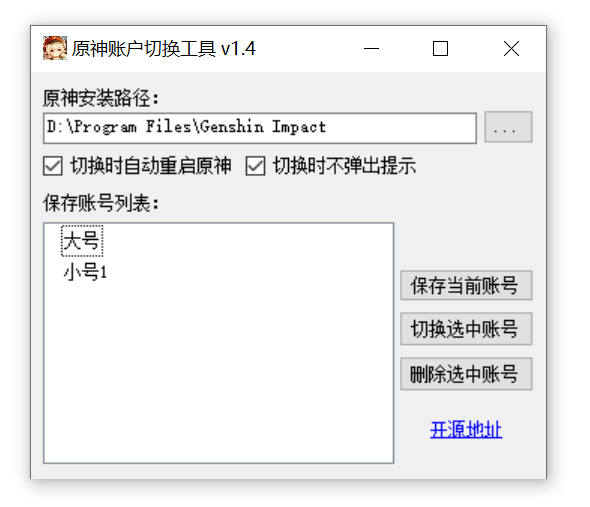
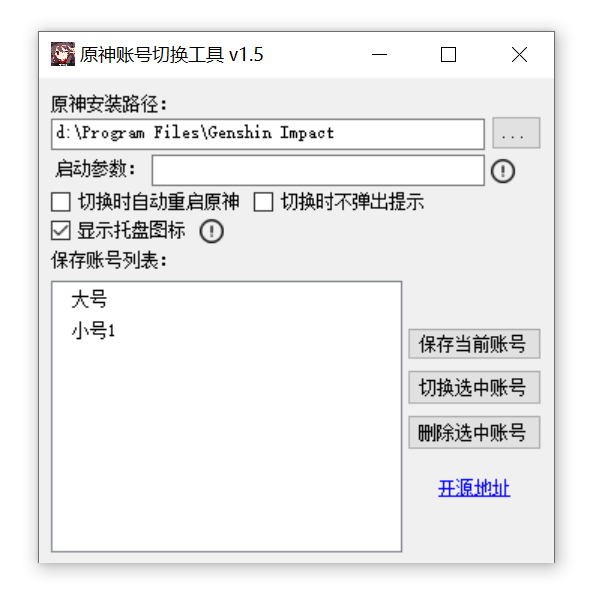
1.5

Changed region(s): [[0.0305, 0.0296, 0.9458, 0.9467], [0.7322, 0.7988, 0.8542, 0.8876], [0.6102, 0.0888, 0.6407, 0.1183]]

diff --git a/GenshinAccount/Properties/AssemblyInfo.cs b/GenshinAccount/Properties/AssemblyInfo.cs
@@ -10,7 +10,7 @@ using System.Runtime.InteropServices;
 [assembly: AssemblyConfiguration("")]
 [assembly: AssemblyCompany("")]
 [assembly: AssemblyProduct("GenshinAccount")]
-[assembly: AssemblyCopyright("Copyright ©  2020")]
+[assembly: AssemblyCopyright("Copyright ©  2021")]
 [assembly: AssemblyTrademark("")]
 [assembly: AssemblyCulture("")]
 
@@ -32,5 +32,5 @@ using System.Runtime.InteropServices;
 // 可以指定所有值，也可以使用以下所示的 "*" 预置版本号和修订号
 // 方法是按如下所示使用“*”: :
 // [assembly: AssemblyVersion("1.0.*")]
-[assembly: AssemblyVersion("1.4.0.0")]
-[assembly: AssemblyFileVersion("1.4.0.0")]
+[assembly: AssemblyVersion("1.5.0.0")]
+[assembly: AssemblyFileVersion("1.5.0.0")]

diff --git a/GenshinAccount/FormMain.Designer.cs b/GenshinAccount/FormMain.Designer.cs
@@ -190,8 +190,8 @@
             // 
             // picHelpSatrtParam
             // 
-            this.picHelpSatrtParam.Image = global::GenshinAccount.Properties.Resources.attention;
             resources.ApplyResources(this.picHelpSatrtParam, "picHelpSatrtParam");
+            this.picHelpSatrtParam.Image = global::GenshinAccount.Properties.Resources.attention;
             this.picHelpSatrtParam.Name = "picHelpSatrtParam";
             this.picHelpSatrtParam.TabStop = false;
             this.tipHelp.SetToolTip(this.picHelpSatrtParam, resources.GetString("picHelpSatrtParam.ToolTip"));
